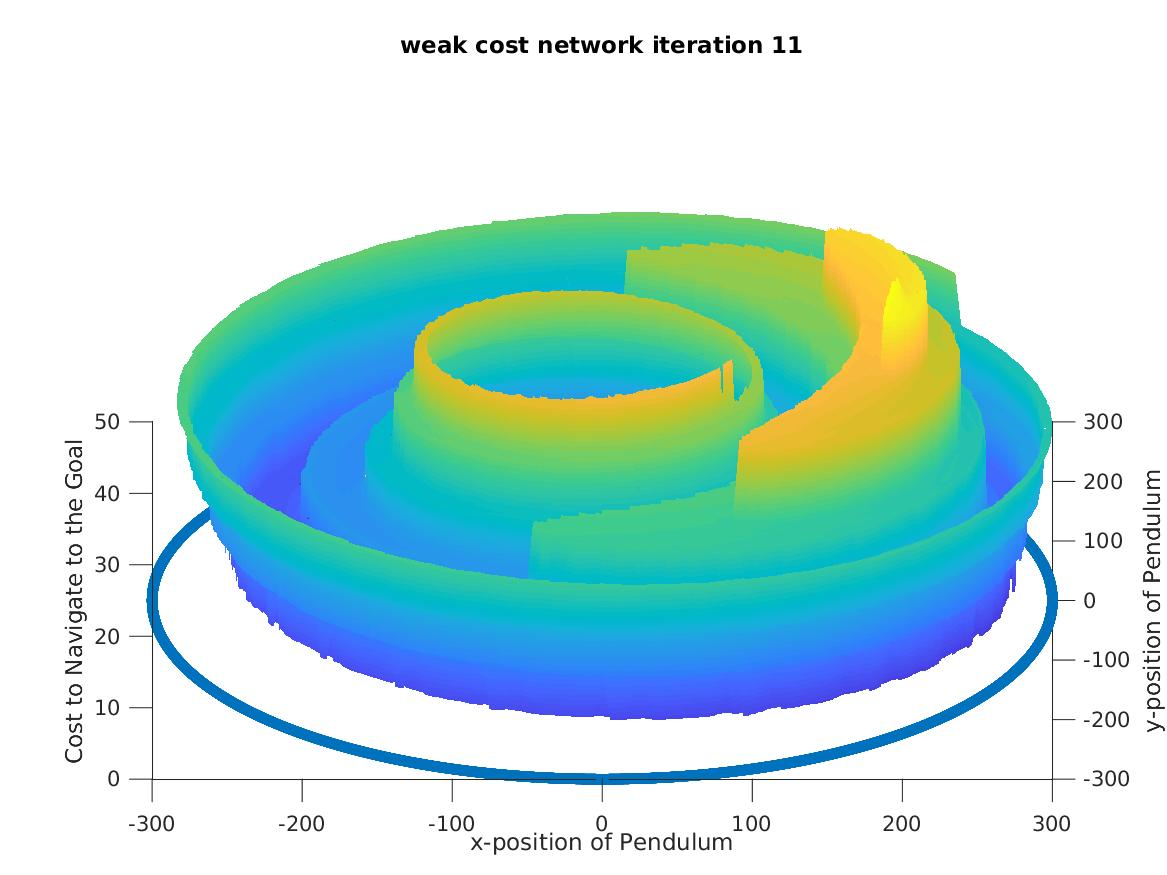
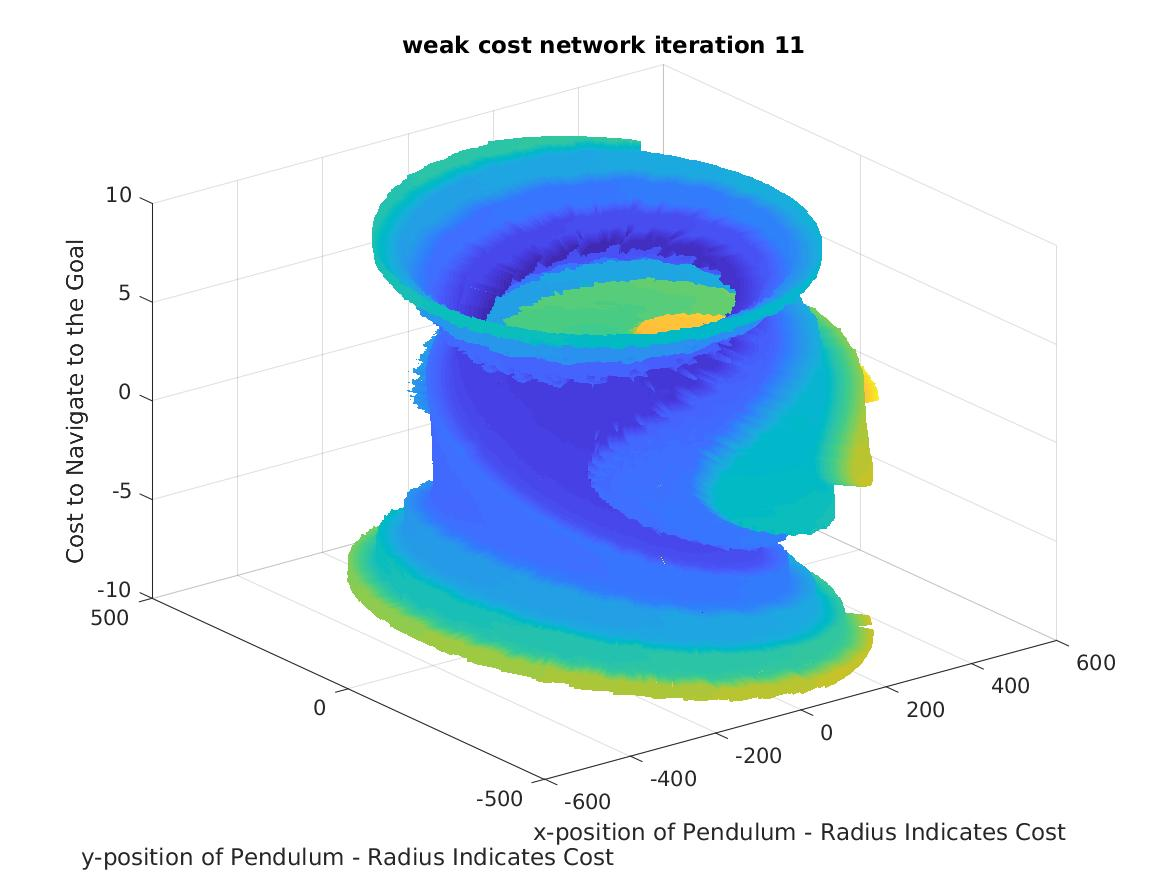
adding plots

diff --git a/matlab/single_pendulum/dynamic-programming/show_cost_network.m b/matlab/single_pendulum/dynamic-programming/show_cost_network.m
@@ -18,7 +18,7 @@ saveas(fig1, [path 'discoidal_' figure_file_name '.jpg'],'jpeg')
 [x,y,z] = get_CN_cylinder_data(rmean,all_angles,all_speeds,statenvalues);
 fig2 = visualize_cost_network_on_cylinder(fig2,x,y,z,figure_file_name);
 shading interp
-saveas(fig1, [path 'cylindrical_' figure_file_name '.jpg'],'jpeg')
+saveas(fig2, [path 'cylindrical_' figure_file_name '.jpg'],'jpeg')
 end
 
 %% functions
